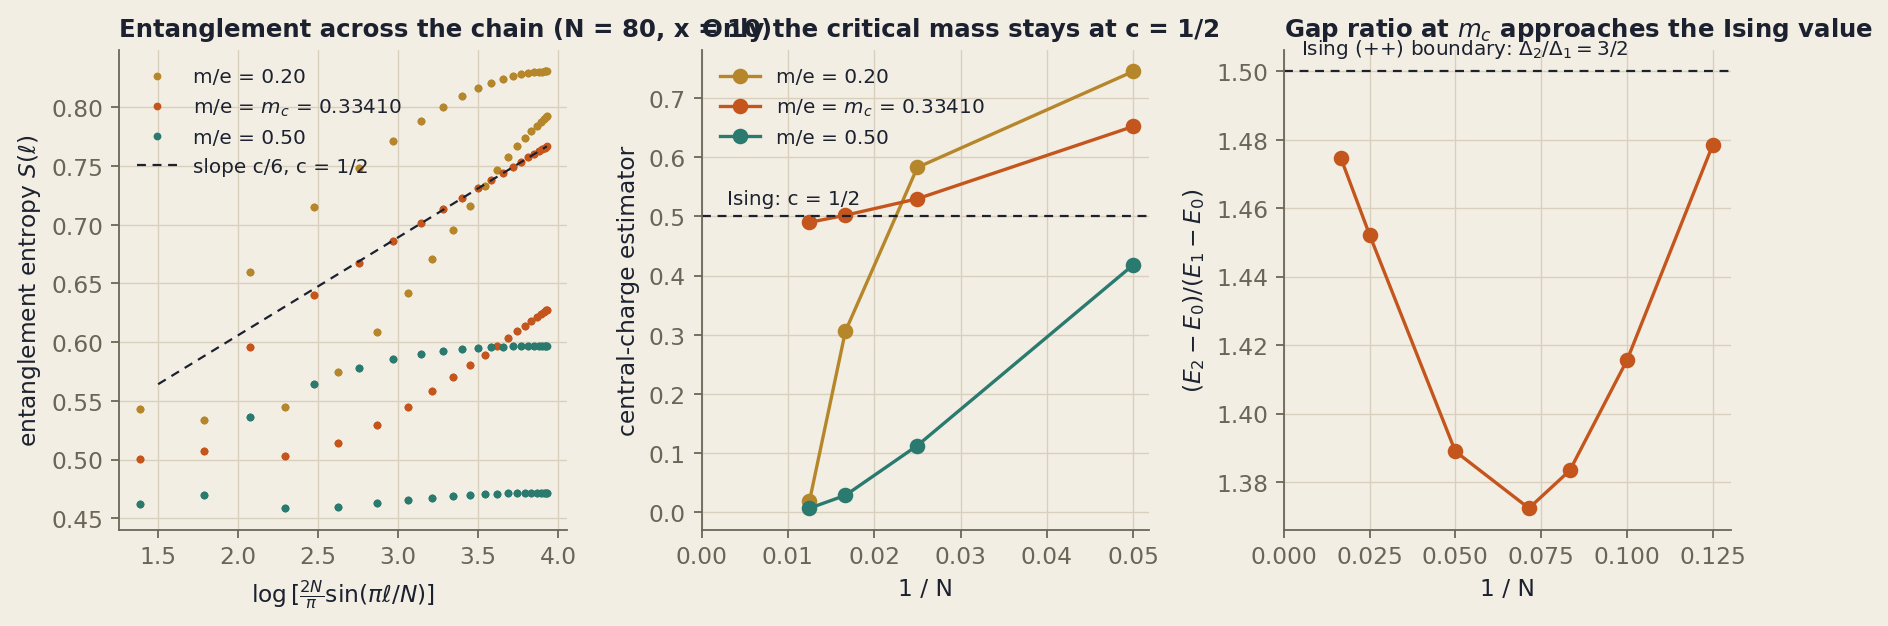
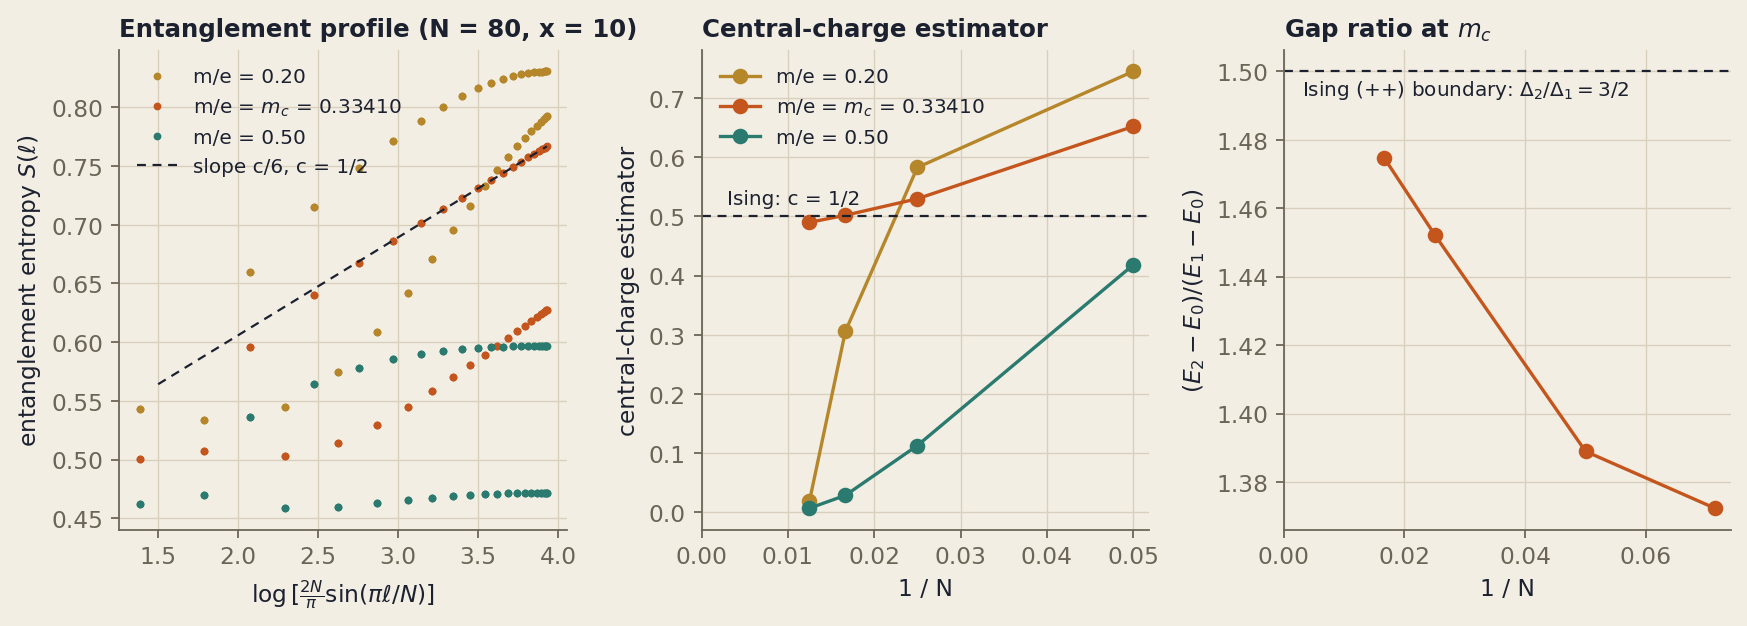
Tidy Schwinger criticality figure

diff --git a/examples/make_figures.py b/examples/make_figures.py
@@ -165,7 +165,7 @@ def fig_schwinger():
             label="slope c/6, c = 1/2")
     ax.set_xlabel(r"$\log\,[\frac{2N}{\pi}\sin(\pi\ell/N)]$")
     ax.set_ylabel(r"entanglement entropy $S(\ell)$")
-    ax.set_title(f"Entanglement across the chain (N = {N}, x = 10)")
+    ax.set_title(f"Entanglement profile (N = {N}, x = 10)")
     ax.legend(loc="upper left", fontsize=9)
 
     ax = axs[1]
@@ -177,18 +177,18 @@ def fig_schwinger():
     ax.set_xlim(0, None)
     ax.set_xlabel("1 / N")
     ax.set_ylabel("central-charge estimator")
-    ax.set_title("Only the critical mass stays at c = 1/2")
+    ax.set_title("Central-charge estimator")
     ax.legend(loc="upper left", fontsize=9)
 
     ax = axs[2]
-    Ns = sorted(int(k) for k in d["ratio"])
+    Ns = sorted(int(k) for k in d["ratio"] if int(k) >= 14)   # smaller lattices: lattice artefacts dominate
     ax.plot(1 / np.array(Ns), [d["ratio"][str(n)] for n in Ns], "o-", color=ORANGE)
     ax.axhline(1.5, color=INK, lw=1, ls=(0, (4, 3)))
-    ax.text(0.005, 1.505, r"Ising (++) boundary: $\Delta_2/\Delta_1 = 3/2$", fontsize=9)
+    ax.text(0.003, 1.493, r"Ising (++) boundary: $\Delta_2/\Delta_1 = 3/2$", fontsize=9)
     ax.set_xlim(0, None)
     ax.set_xlabel("1 / N")
     ax.set_ylabel(r"$(E_2 - E_0)/(E_1 - E_0)$")
-    ax.set_title(r"Gap ratio at $m_c$ approaches the Ising value")
+    ax.set_title(r"Gap ratio at $m_c$")
     save(fig, "schwinger_criticality.png")
 
 
